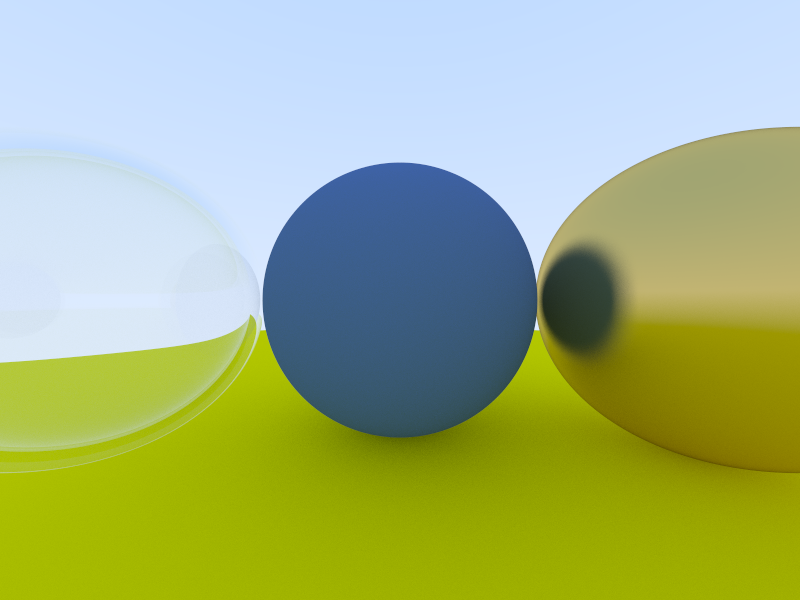
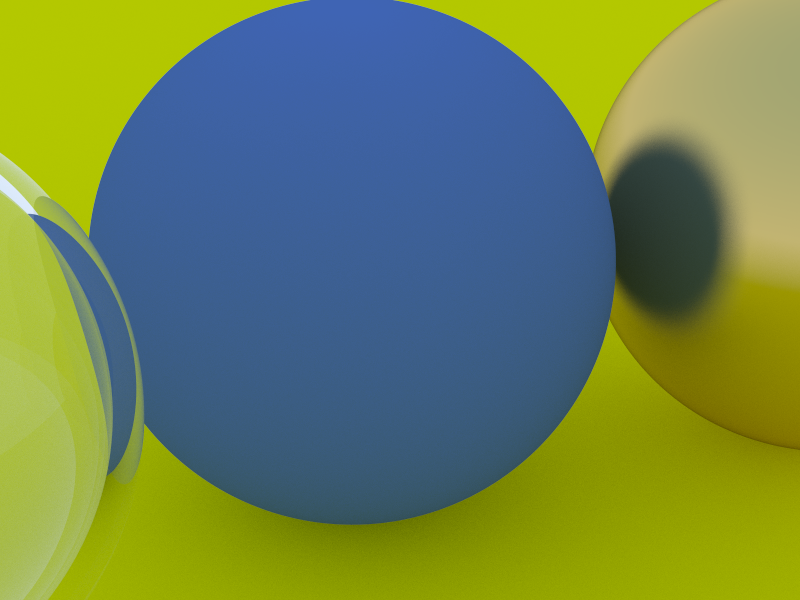
Moveable camera

diff --git a/src/main.rs b/src/main.rs
@@ -57,14 +57,21 @@ fn main() {
   objects.push(Box::new(Sphere::new(Lambertian::new(DVec3::new(0.8, 0.8, 0.0)), DVec3::new(0.0, -100.5, -1.0), 100.0)));
 
   // Camera
-  let focal_length: f64 = 1.0;
-  let center: DVec3 = DVec3::new(0.0, 0.0, 0.0);
-  let u: DVec3 = DVec3::new(2.0 * (dimensions.x as f64 / dimensions.y as f64), 0.0, 0.0);
-  let v: DVec3 = DVec3::new(0.0, -2.0, 0.0);
+  let vfov: f64 = 25.0;
+  let vup: DVec3 = DVec3::new(0.0, 1.0, 0.0);
+  let center: DVec3 = DVec3::new(-1.0, 1.0, 1.0);
+  let direction: DVec3 = DVec3::new(0.0, 0.0, -1.0);
+
+  let focal_length: f64 = (center - direction).length();
+  let viewport_height: f64 = 2.0 * ((vfov * std::f64::consts::PI / 360.0)).tan() * focal_length;
+  let viewport_width: f64 = viewport_height * (dimensions.x as f64 / dimensions.y as f64);
+  let w: DVec3 = (center - direction).normalize();
+  let u: DVec3 = viewport_width * vup.cross(w).normalize(); 
+  let v: DVec3 = viewport_height * -w.cross(u / viewport_width);
   let delta_u: DVec3 = u / dimensions.x as f64;
   let delta_v: DVec3 = v / dimensions.y as f64;
   let upper_left: DVec3 = 
-    (center - DVec3::new(0.0, 0.0, focal_length) - u/2.0 - v/2.0) 
+    (center - (focal_length * w) - u / 2.0 - v / 2.0) 
     + 0.5 * (delta_u + delta_v);
 
   // Set-up rendering settings

diff --git a/src/materials.rs b/src/materials.rs
@@ -107,10 +107,6 @@ impl Material for Metal {
     let mut reflected = reflect(ray.direction.normalize(), intersection.normal);
     reflected = reflected.normalize() + (self.fuzz * random_unit_vector());
 
-    // Apply fuzz to the reflection direction
-    // let random_offset = random_hemisphere_vector() * self.fuzz;
-    // let scattered_direction = reflected + random_offset;
-
     // Ensure the reflected ray is in the correct direction (not backwards)
     if reflected.dot(intersection.normal) > 0.0 {
       let scattered_ray: Ray = Ray {
